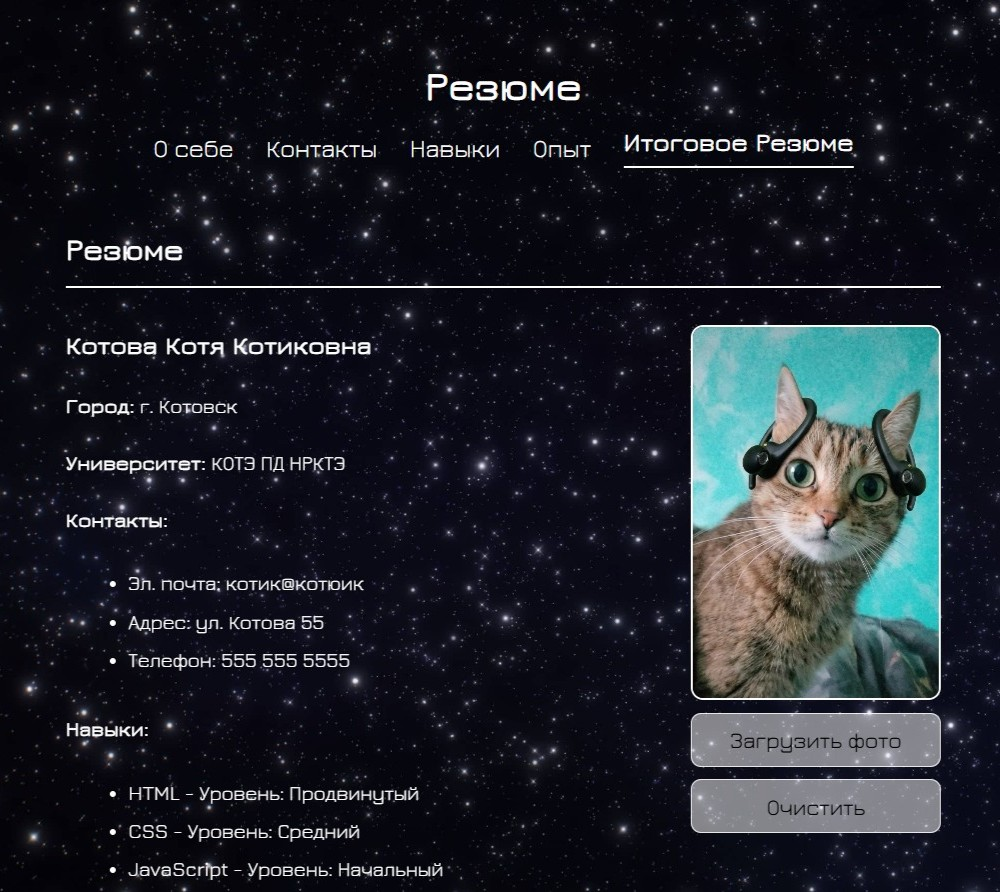
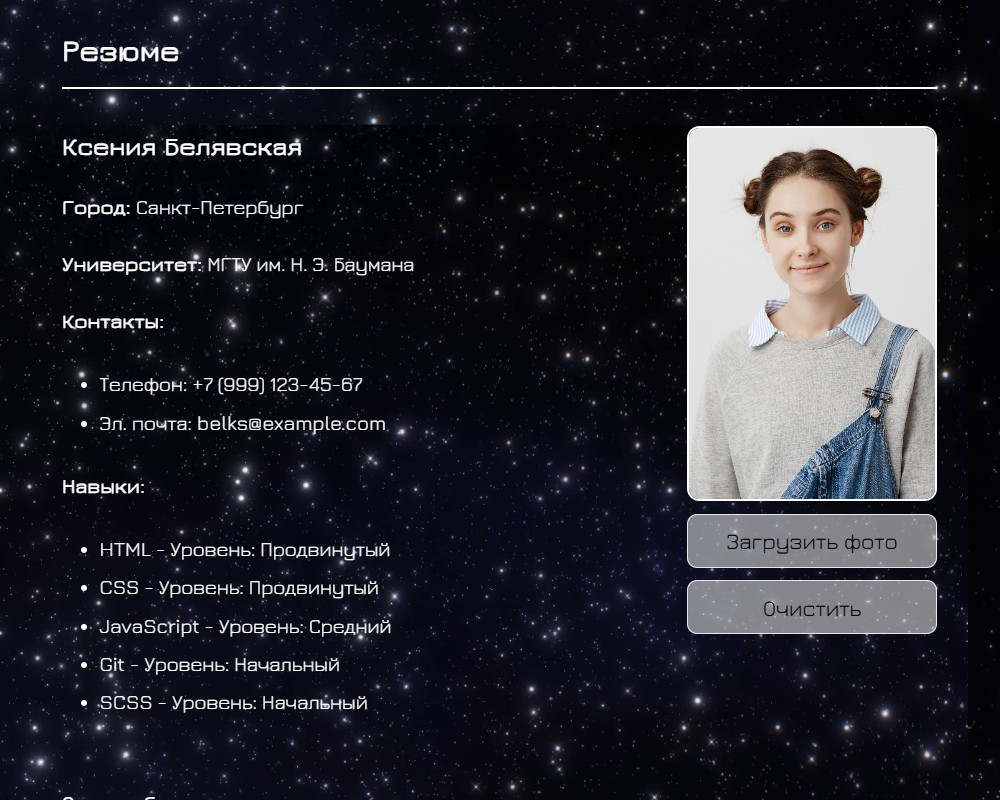
Дополнить карточку Проект резюме

diff --git a/index.html b/index.html
@@ -186,7 +186,7 @@
                         <!-- Основной контент карточки -->
                         <div class="flex flex-col justify-beetween flex-1">
                             <p class="text-sm text-slate-600 mb-4 flex-1">
-                                Реализованы динамические формы, автокомплит, загрузка фото через FileReader и генерация PDF.
+                                Интерактивный конструктор резюме с живым предпросмотром: пошаговая навигация по разделам, динамические формы с автокомплитом, загрузка фото (FileReader), сохранение прогресса в localStorage и выгрузка в PDF.
                             </p>
                             <!-- Футер карточки -->
                             <div class="flex flex-col gap-4">
